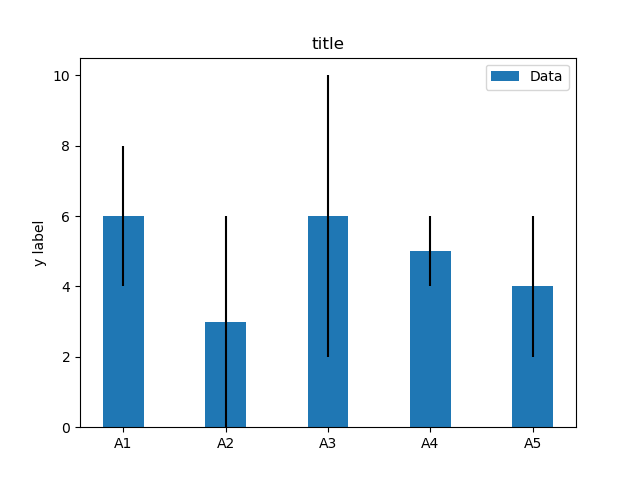
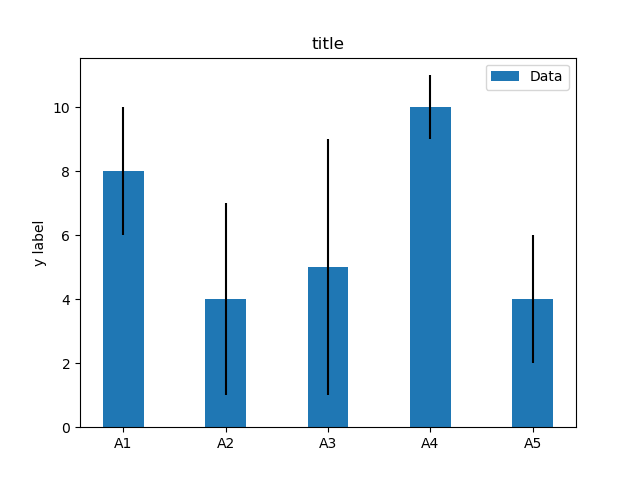
first commit

diff --git a/example.py b/example.py
@@ -2,7 +2,7 @@ import numpy as np
 import matplotlib.pyplot as plt
 
 labels = ['A1', 'A2', 'A3', 'A4', 'A5']
-m_means = [6,3,6,5,4]
+m_means = [8,4,5,10,4]
 m_std = [2, 3, 4, 1, 2]
 width = 0.40       # the width of the bars
 

diff --git a/README.md b/README.md
@@ -1,4 +1,4 @@
-# Matplotlib no 205 
+# Matplotlib no 206 
 
 python example
 
